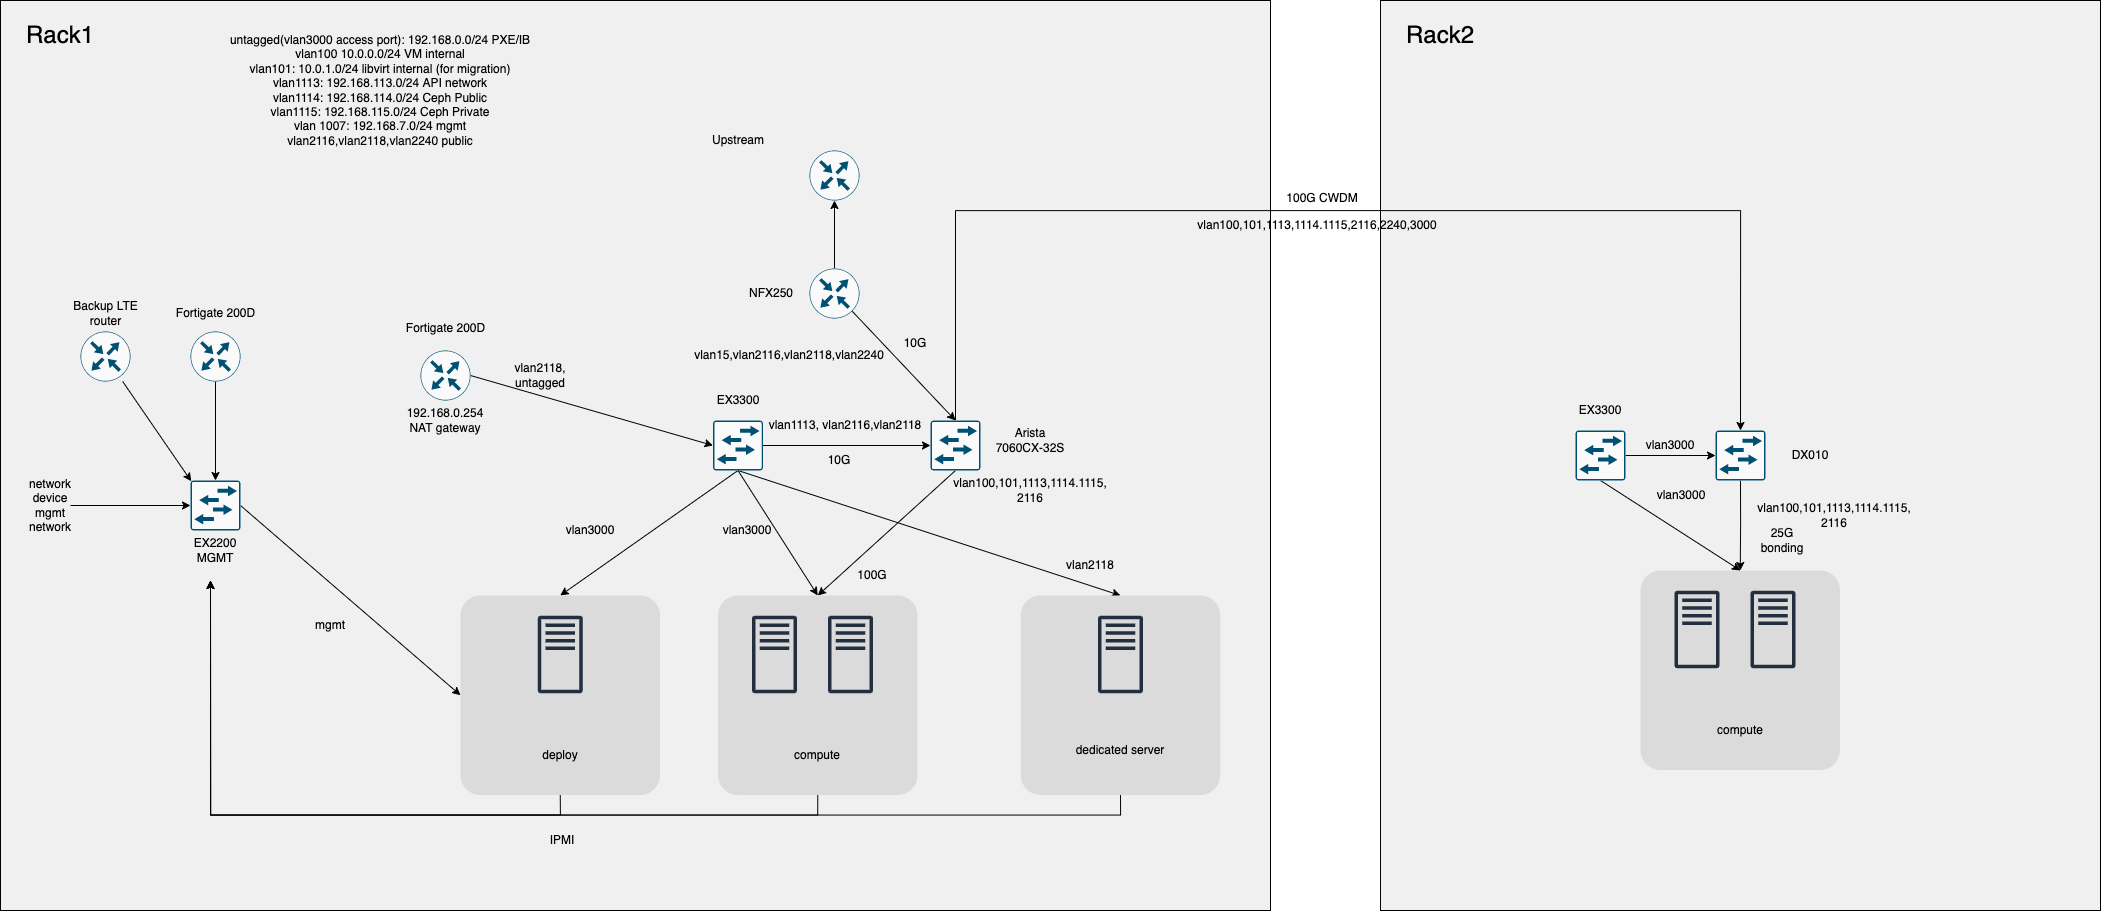
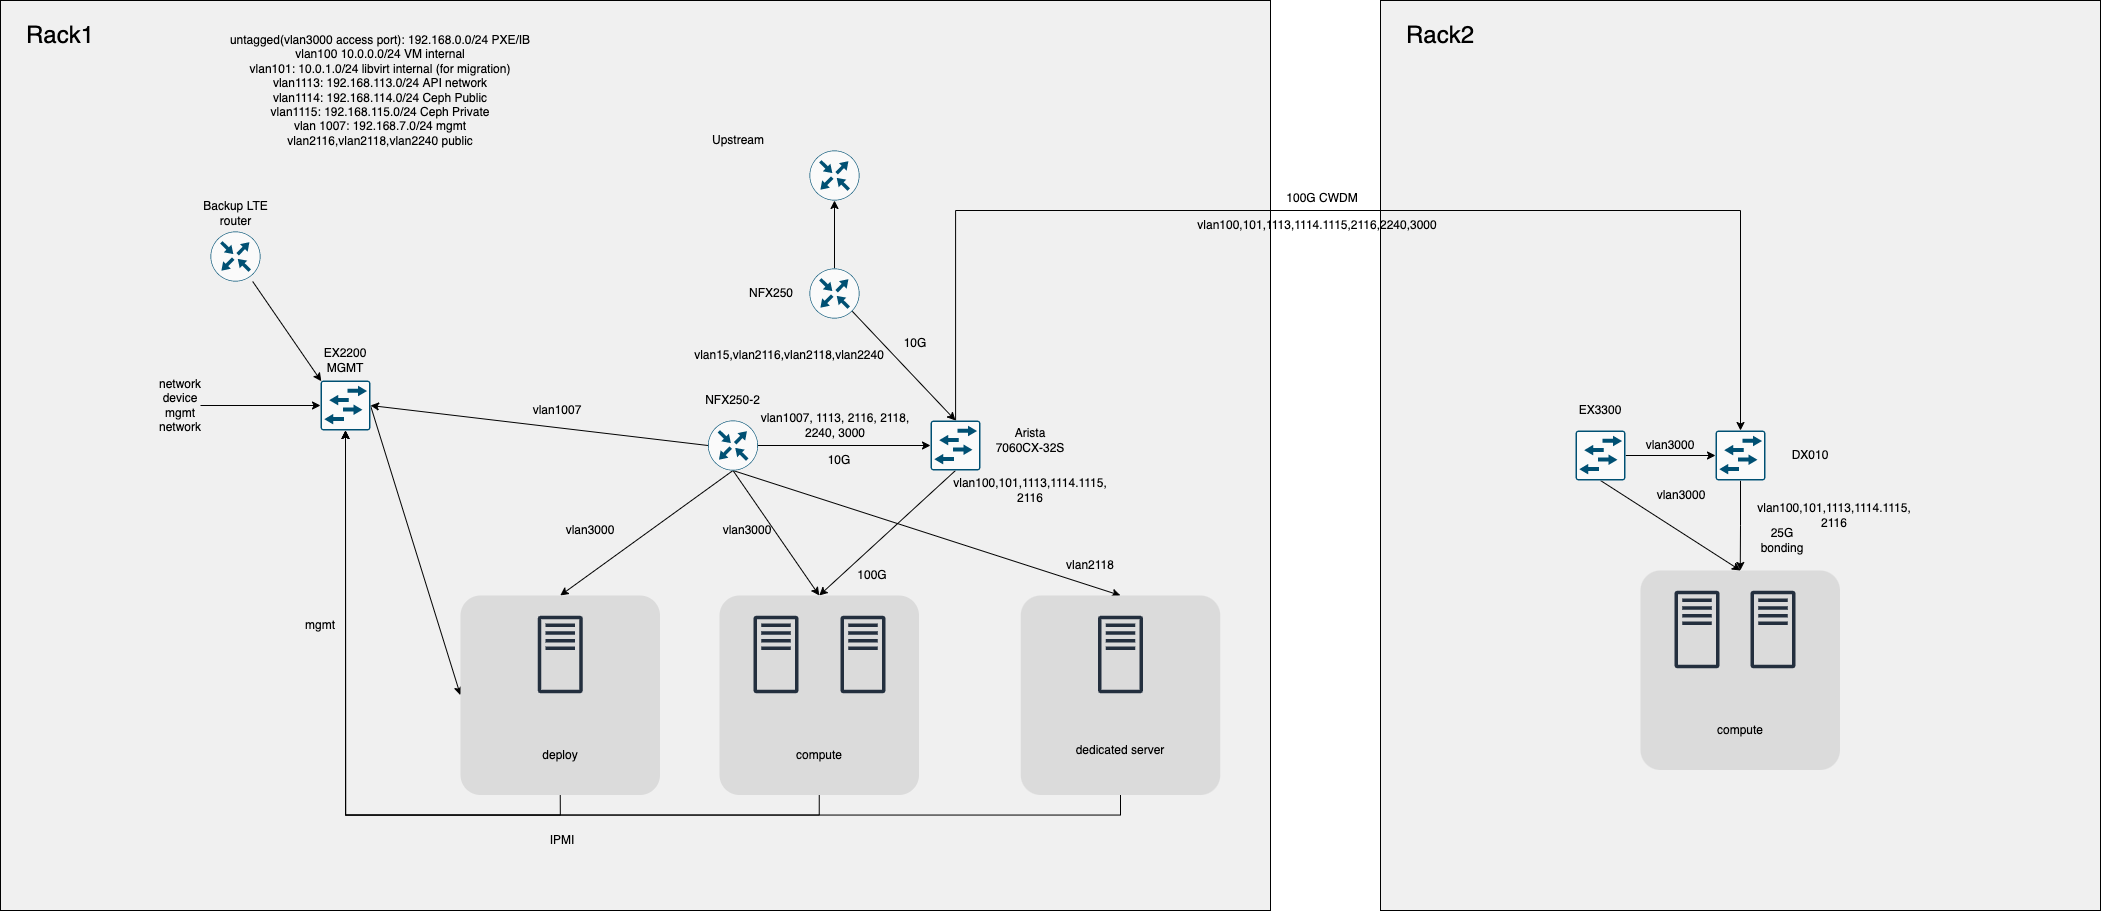
Update Network Architecture (#36)
In recent network architecture change, we removed the barely use
Fortigate and EX3300 with an NFX250 doing both NAT and some switching.

diff --git a/docs/architecture/network.md b/docs/architecture/network.md
@@ -23,11 +23,14 @@ Rack 2 目前仍在建置中。
 
 路由器目前使用一台 Juniper NFX250，主要功能是與上游進行 BGP 宣告和 Infra Labs 使用 public IP 的 gateway。除此之外，路由器也被用來過濾掉一些容易被攻擊的連接埠。
 
+另一台 NFX250 主要用於：
+
+- In band management 網路 NAT gateway
+- Dashboard, DNS server 的 NAT
+- Out of band Mangement 網路 VPN access
+- DNS server 流量限制
+
 ### 交換機
-
-#### Juniper EX3300-48T
-
-EX3300-48T stacking 提供了 PXE/In band management 網路
 
 #### Arista DCS-7060CX-32S
 
@@ -36,15 +39,6 @@ Arista DCS-7060CX-32S 100G 交換機主要用於 VM 內/外部網路、Libvirt m
 #### Juniper EX2200-24T
 
 Juniper EX2200-24T 主要用於 Out of band management 網路。下接至各個主機 IPMI、網路設備 management port，上接至 Fortigate 200D。
-
-## 防火牆
-
-防火牆使用 Fortigate 200D 一台，主要用於
-
-- In band management 網路 NAT gateway
-- Dashboard, DNS server 的 NAT
-- Mangement 網路 VPN access
-- DNS server 流量限制
 
 ### LTE 設備
 
